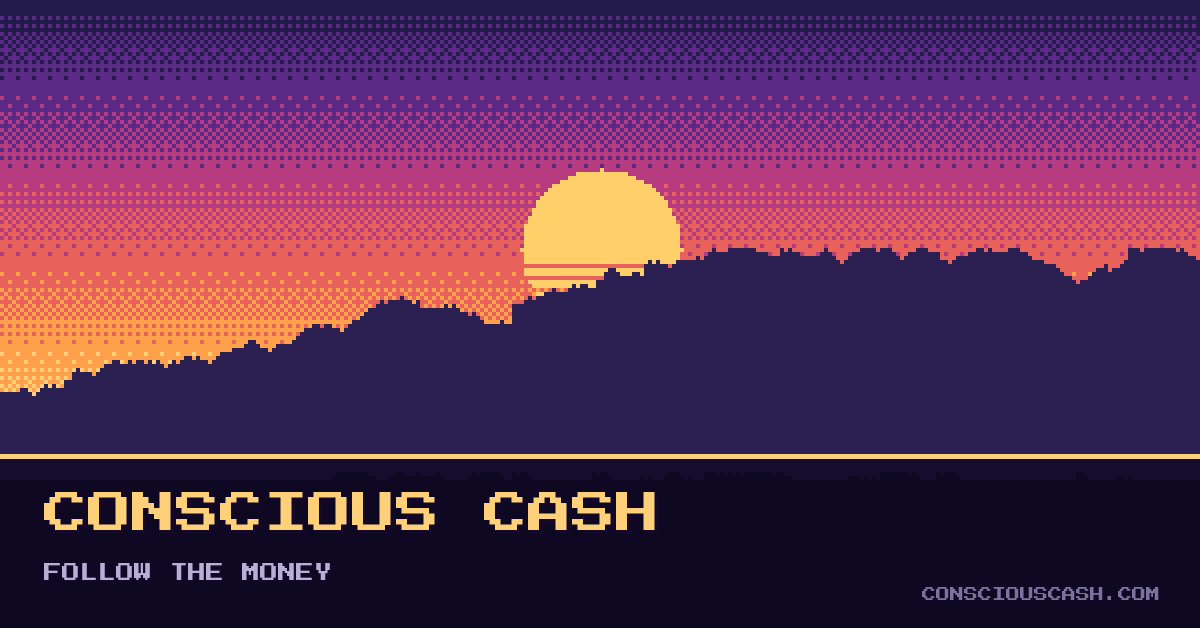
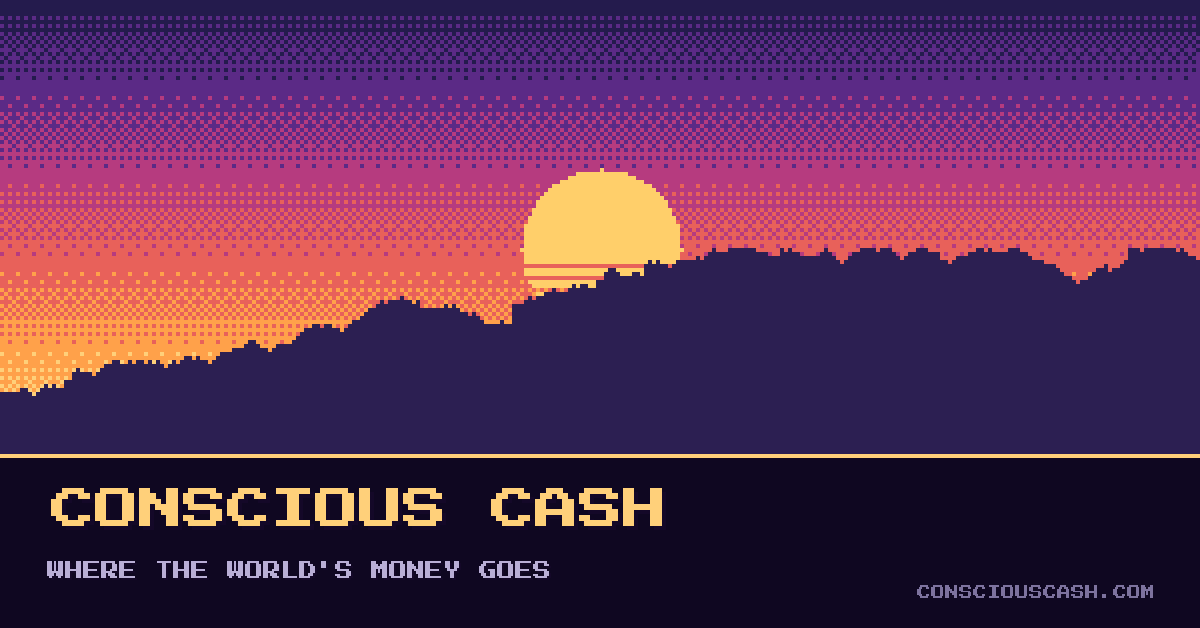
Language audit: neutral explanatory voice, fix inaccurate claims

diff --git a/index.html b/index.html
@@ -4,9 +4,9 @@
 <meta charset="utf-8">
 <meta name="viewport" content="width=device-width, initial-scale=1">
 <title>Conscious Cash</title>
-<meta name="description" content="Follow the money: how the world's cash flows drive the climate and nature crises — and how consciously redirected capital could reverse them.">
+<meta name="description" content="A data walkthrough of the world's largest money flows — where they go, what they fund, and what redirecting a share of them could build.">
 <meta property="og:title" content="Conscious Cash">
-<meta property="og:description" content="Follow the money: how the world's cash flows drive the climate and nature crises — and how consciously redirected capital could reverse them.">
+<meta property="og:description" content="A data walkthrough of the world's largest money flows — where they go, what they fund, and what redirecting a share of them could build.">
 <meta property="og:image" content="https://consciouscash.com/og/home.png">
 <meta property="og:url" content="https://consciouscash.com/">
 <meta property="og:type" content="website">
@@ -201,21 +201,19 @@
   <canvas id="scene"></canvas>
   <div class="overlay">
     <h1>CONSCIOUS CASH</h1>
-    <div class="tag">Every trend on this site — every tonne of carbon, every acre of forest — is downstream of a spending decision. Follow the money.</div>
+    <div class="tag">Where the world's money goes, what it builds, and what it could build — in four data-driven pages.</div>
   </div>
   <div class="down">▼</div>
 </div>
 
 <div class="wrap">
   <header class="site">
-    <div class="eyebrow">Follow the money · compiled from IMF · UNEP · IEA · WPP</div>
+    <div class="eyebrow">Where the world's money goes · compiled from IMF · UNEP · IEA · WPP</div>
     <p class="byline" style="margin-top:14px">Compiled by <b>Kamber Lucas</b> · Data current as of August 2026 · Continue to: <a href="/carbon-atlas/">Carbon Atlas</a> · <a href="/nature-atlas/">Nature Atlas</a> · <a href="/solutions/">Solutions</a></p>
-    <p class="lede">The world spends roughly $115 trillion a year. Where that money flows decides what gets built, what gets burned, and what survives. This page follows the biggest flows — the ones financing damage by default, and the ones starting to reverse it.</p>
-
     <div class="panel intro">
       <h2>START HERE</h2>
-      <p><strong>The premise of this site:</strong> climate change and nature loss are usually described as energy problems or land problems. Underneath, they are <b>capital allocation problems</b>. Coal plants, cattle pastures and container ships all exist because a stream of money keeps them profitable — and solar farms, restored wetlands and green steel exist exactly where a stream of money was consciously pointed at them.</p>
-      <p><strong>"Unconscious" spending</strong> doesn't mean malicious. It means money moving by default — subsidies that persist year after year, and damage that never shows up on an invoice. Most of the largest numbers on this page fall into that category.</p>
+      <p><strong>The premise of this site:</strong> climate change and nature loss are usually described as energy problems or land problems. Underneath, they are <b>capital allocation problems</b>. Coal plants, cattle pastures and container ships exist because streams of money keep them running — and solar farms, restored wetlands and green steel exist where streams of money were deliberately directed.</p>
+      <p><strong>Much of this money moves by default</strong> — through subsidies that carry over year after year, and through costs, like the health effects of pollution, that never appear on any invoice. "Conscious cash" is this site's shorthand for the alternative: money directed with its full effects in view.</p>
       <p><strong>The good news</strong> is that redirecting money is far easier than inventing it. The sums needed to fund the <a href="/solutions/">solutions</a> are small next to the flows already moving through the system, which is why redirecting them is a realistic lever.</p>
     </div>
 
@@ -245,13 +243,13 @@
 
   <section>
     <h2>THE WORLD'S LEDGER</h2>
-    <p class="subhead">The planet-shaping money flows, side by side, in trillions of dollars per year. Three kinds of line-items: flows financing damage, flows that are simply enormous (for scale), and flows consciously financing the fix.</p>
+    <p class="subhead">The largest planet-relevant money flows, side by side, in trillions of dollars per year. Three kinds of line items: flows linked to environmental damage, large flows shown for scale, and flows funding the transition.</p>
     <div class="howto"><span class="tag">HOW TO READ</span>Each bar is an annual flow in trillions of US dollars — hover any bar for detail. One caution: these come from different accounting systems (IMF, UNEP, IEA) and <b>overlap</b> — fossil subsidies and nature-negative flows partly count the same money — so read them as comparable magnitudes, never add them up.</div>
     <div class="panel">
       <div class="legend">
-        <div class="r"><span class="chip" style="background:var(--s2)"></span>Financing damage</div>
+        <div class="r"><span class="chip" style="background:var(--s2)"></span>Linked to environmental damage</div>
         <div class="r"><span class="chip" style="background:var(--s7)"></span>For scale</div>
-        <div class="r"><span class="chip" style="background:var(--s6)"></span>Financing the fix</div>
+        <div class="r"><span class="chip" style="background:var(--s6)"></span>Funding the transition</div>
       </div>
       <div id="ledger"></div>
       <div class="flags" style="margin-top:16px"><b>Worth noting:</b> governments and markets route roughly <b>ten times more money</b> into fossil fuel subsidies and nature-negative activity than the combined growth needed in nature-based solutions and clean power to hit global targets.</div>
@@ -259,30 +257,30 @@
   </section>
 
   <section>
-    <h2>UNCONSCIOUS SPENDING</h2>
+    <h2>SPENDING BY DEFAULT</h2>
     <p class="subhead">The two biggest bars above deserve unpacking, because they are easy to misread.</p>
     <div class="panel intro" style="border-left-color:var(--critical)">
       <p><strong>The $7.4 trillion fossil subsidy</strong> is mostly invisible. Only $725 billion is governments directly discounting fuel. The other $6.7 trillion is <b>"implicit" subsidy</b> — the health damage from air pollution and the climate damage from emissions that fuel prices simply don't include. Those costs still get paid — in health impacts and climate damage — just not at the pump · IMF, 2025 update.</p>
       <p><strong>The $7.3 trillion nature-negative flow</strong> is the same phenomenon on the living world: public and private money financing over-extraction, conversion and pollution — about $1.7 trillion of it straight from public treasuries. It is roughly <b>30× larger</b> than everything spent protecting and restoring nature · UNEP State of Finance for Nature.</p>
-      <p><strong>What does this buy?</strong> Exactly the curves this site documents. The money above is the financial engine behind every falling trend line in the two atlases:</p>
+      <p><strong>What do these flows connect to?</strong> The trends documented in the two atlases:</p>
     </div>
     <div class="cards">
       <a class="card" href="/carbon-atlas/" style="border-top-color:var(--sunset)">
-        <div class="no">EXHIBIT A</div>
+        <div class="no">RELATED · CARBON</div>
         <div class="t">THE CARBON ATLAS</div>
-        <div class="d">52 billion tonnes of greenhouse gas a year, traced to every source — the direct output of the fossil-subsidized economy.</div>
+        <div class="d">52 billion tonnes of greenhouse gas a year, traced to every source at full granularity.</div>
       </a>
       <a class="card" href="/nature-atlas/" style="border-top-color:var(--s6)">
-        <div class="no">EXHIBIT B</div>
+        <div class="no">RELATED · NATURE</div>
         <div class="t">THE NATURE ATLAS</div>
-        <div class="d">Wildlife down 73%, wetlands down 22%, reefs bleaching — the direct output of the nature-negative $7.3 trillion.</div>
+        <div class="d">Wildlife populations down 73%, wetlands down 22%, reefs under heat stress — tracked in full.</div>
       </a>
     </div>
   </section>
 
   <section>
-    <h2>WHAT IF THIS CASH WERE CONSCIOUS?</h2>
-    <p class="subhead">Here is the arithmetic that makes this site optimistic rather than despairing. Compare what the transition <em>needs</em> against the unconscious flows above — the gaps are real, but they are small change by the standards of the ledger.</p>
+    <h2>CLOSING THE GAPS</h2>
+    <p class="subhead">Comparing what the energy transition and nature protection need against the flows above. The gaps are real — but they are small relative to the ledger.</p>
     <div class="panel">
       <div class="gap">
         <div class="cap"><span><b>Clean energy investment</b> — $2.2T flowing now</span><span class="mono">need: $4.5T/yr by 2030</span></div>
@@ -305,22 +303,22 @@
       <a class="card" href="/">
         <div class="no">01 · YOU ARE HERE</div>
         <div class="t">CONSCIOUS CASH</div>
-        <div class="d">Follow the money: the flows financing the damage, and the small redirection that funds the fix.</div>
+        <div class="d">The largest global money flows, and what redirecting a small share of them could fund.</div>
       </a>
       <a class="card" href="/carbon-atlas/" style="border-top-color:var(--sunset)">
         <div class="no">02 · THE PROBLEM</div>
         <div class="t">CARBON ATLAS</div>
-        <div class="d">What the money burns: every emission source on Earth, at full granularity, with 30 years of trend.</div>
+        <div class="d">Every emission source on Earth, at full granularity, with 30 years of trend behind each sector.</div>
       </a>
       <a class="card" href="/nature-atlas/" style="border-top-color:var(--s6)">
         <div class="no">03 · THE STAKES</div>
         <div class="t">NATURE ATLAS</div>
-        <div class="d">What the money clears: the state of species, forests, oceans and fresh water — and what drives the loss.</div>
+        <div class="d">The state of species, forests, oceans and fresh water — and what drives the loss.</div>
       </a>
       <a class="card" href="/solutions/" style="border-top-color:var(--gold)">
         <div class="no">04 · THE RESPONSE</div>
         <div class="t">SOLUTIONS</div>
-        <div class="d">What conscious money builds: collapsing clean-tech costs, the funds scaling them, and the curves already bending.</div>
+        <div class="d">Falling clean-tech costs, the organisations scaling them, and the trends already shifting.</div>
       </a>
     </div>
   </section>
@@ -335,7 +333,7 @@
         <div><dt>Nature-negative flows</dt><dd>UNEP's term for public and private money financing activities that degrade nature — harmful agricultural subsidies, over-extraction, conversion of habitat.</dd></div>
         <div><dt>Nature-based solutions (NbS)</dt><dd>Investments in nature that solve human problems — reforestation, wetland restoration, mangrove coastal defense. Currently ~$200B/yr worldwide.</dd></div>
         <div><dt>Trillion</dt><dd>A thousand billions. One trillion dollars a year ≈ $32,000 spent every second, all year.</dd></div>
-        <div><dt>Capital allocation</dt><dd>Deciding where money goes. The thesis of this site: it is the master variable behind every environmental trend line.</dd></div>
+        <div><dt>Capital allocation</dt><dd>Deciding where money goes. The through-line of this site: where money flows has a large influence on environmental trends.</dd></div>
       </dl>
     </div>
   </section>
@@ -343,7 +341,7 @@
   <footer class="src">
     <h3>Sources &amp; method</h3>
     <p>Fossil subsidies: <a href="https://www.elibrary.imf.org/view/journals/001/2025/270/article-A001-en.xml">IMF Fossil Fuel Subsidies Data: 2025 Update</a> ($7.4T total in 2024 = 6.4% of GDP; $725B explicit, $6.7T implicit, three-quarters of it unpriced air pollution and climate damage). Nature flows: <a href="https://www.unep.org/resources/state-finance-nature-2026">UNEP State of Finance for Nature</a> ($7.3T nature-negative flows; ~$200B to nature-based solutions; ~$1.7T of the negative flows from public sources; NbS need ≈ $542B/yr by 2030). Clean energy: <a href="https://www.iea.org/reports/world-energy-investment-2026">IEA World Energy Investment 2026</a> ($2.2T clean vs $1.2T fossil); need: <a href="https://www.iea.org/reports/net-zero-roadmap-a-global-pathway-to-keep-the-15-c-goal-in-reach/executive-summary">IEA Net Zero Roadmap</a> ($4.5T/yr by 2030). Advertising: <a href="https://www.marketingbrew.com/stories/2025/12/09/total-global-ad-revenue-grew-nearly-9-in-2025-wpp-media">WPP Media</a> (~$1.1T in 2025). World GDP: IMF World Economic Outlook (~$115T, 2025).</p>
-    <p>Method notes: flows come from different accounting frameworks and partially overlap (the IMF's implicit subsidies and UNEP's nature-negative flows both capture unpriced damage) — they are presented for magnitude comparison and never summed. "Unconscious/conscious" is this site's framing, not the sources'. The 3%-of-GDP redirection figure is arithmetic on the sourced numbers ($2.3T energy gap + $0.34T nature gap ≈ $2.6T ≈ 2.3% of GDP, rounded up for margin), not a published scenario.</p>
+    <p>Method notes: flows come from different accounting frameworks and partially overlap (the IMF's implicit subsidies and UNEP's nature-negative flows both capture unpriced damage) — they are presented for magnitude comparison and never summed. "Conscious cash" and "spending by default" are this site's framing, not the sources'. The 3%-of-GDP redirection figure is arithmetic on the sourced numbers ($2.3T energy gap + $0.34T nature gap ≈ $2.6T ≈ 2.3% of GDP, rounded up for margin), not a published scenario.</p>
     <p>© Kamber Lucas · <a href="/about/">About this project</a> · <a href="/carbon-atlas/">Carbon Atlas</a> · <a href="/nature-atlas/">Nature Atlas</a> · <a href="/solutions/">Solutions</a> · <a href="/map/" title="World map">🗺</a></p>
   </footer>
 </div>
@@ -521,7 +519,7 @@
     { n: "Nature-negative flows", note: "UNEP 2023 · overlaps with the above", v: 7.3, c: "--s2" },
     { n: "Clean energy investment", note: "IEA 2026 · nearly 2× fossil investment", v: 2.2, c: "--s6" },
     { n: "Fossil fuel investment", note: "IEA 2026 · oil, gas & coal supply", v: 1.2, c: "--s2" },
-    { n: "Global advertising", note: "WPP 2025 · the demand engine", v: 1.1, c: "--s7" },
+    { n: "Global advertising", note: "WPP 2025 · shown for scale", v: 1.1, c: "--s7" },
     { n: "Nature-based solutions", note: "UNEP · all spending on nature, worldwide", v: 0.2, c: "--s6" }
   ];
   var el = document.getElementById("ledger");

diff --git a/inner/index.html b/inner/index.html
@@ -195,14 +195,14 @@
 
 <div class="wrap">
   <header class="site">
-    <div class="eyebrow">You found the hidden page · the mind behind the money</div>
+    <div class="eyebrow">You found the hidden page · the science of inner states</div>
     <h1>INNER TECH</h1>
     <p class="byline">Compiled by <b>Kamber Lucas</b> · Data current as of August 2026 · Not linked from anywhere. You clicked the sun.</p>
     <p class="lede">Every page on this site is about decisions — where money, carbon and land go. This page is about the thing making those decisions: the mind. A wave of researchers, retreats and startups is treating inner states as trainable, measurable and fundable — and the science is further along than most people know.</p>
 
     <div class="panel intro">
       <h2>START HERE</h2>
-      <p><strong>Why a money site has a consciousness page:</strong> the site argues that unconscious spending is autopilot — money moving without attention. But attention is a faculty of minds, and minds can be trained. The deepest version of "conscious cash" isn't a portfolio choice; it's the capacity to notice what you're doing while you're doing it. This page covers the emerging field — sometimes called <b>spirit tech</b> — trying to make that capacity scalable.</p>
+      <p><strong>Why a money site has a consciousness page:</strong> every flow charted on this site is, at some level, the result of human decisions — and decisions are shaped by attention and wellbeing. Both turn out to be trainable. This page covers the emerging field — sometimes called <b>spirit tech</b> — studying whether the mind's capacities can be developed, measured, and supported at scale.</p>
       <p><strong>What's actually new:</strong> three things converged in the last few years. Contemplative practices that took monasteries decades are being taught in days and studied with neuroimaging at places like Harvard. Psychedelic-assisted therapy produced two positive Phase 3 trials and is on an accelerated path to FDA decision. And measurement — EEG headbands, focused ultrasound, biomarkers of deep states — is starting to make the inner world legible the way satellites made forests legible.</p>
       <p><strong>Same rules as the rest of the site:</strong> sources are listed at the bottom, projections are labelled as projections — and this field needs the caveats more than any other page here. The evidence base is young, the hype is real, and so are the risks. Both are covered below.</p>
     </div>
@@ -232,9 +232,9 @@
   </header>
 
   <section>
-    <h2>THE EVIDENCE, HONESTLY RANKED</h2>
+    <h2>THE EVIDENCE, RANKED</h2>
     <p class="subhead">Not everything in this space is equally proven. Here is the field's toolkit ranked by the strength of its current evidence — from decades of clinical trials down to first-in-human experiments. The pattern worth noticing: things keep moving up this ladder.</p>
-    <div class="howto"><span class="tag">HOW TO READ</span>Longer bars = stronger current evidence. This is a judgment call informed by the literature, not a measurement — the point is the honest spread, not false precision.</div>
+    <div class="howto"><span class="tag">HOW TO READ</span>Longer bars = stronger current evidence. This is a judgment call informed by the literature, not a measurement — the point is the spread, not false precision.</div>
     <div class="panel">
       <div class="erow">
         <div class="lbl">Mindfulness programs<small>MBSR and derivatives, 40+ years of trials</small></div>
@@ -275,7 +275,7 @@
     <div class="panel intro" style="border-left-color:var(--aurora)">
       <p><strong>The numbers they report:</strong> most retreat participants reach jhana in under 40 hours of meditation; over 60% describe the retreat as the best thing that's happened to them in six months or more. Their retreats have drawn 100+ engineers from OpenAI, Anthropic and Google, and coverage from TIME. The company has raised only ~$750K — this wave is currently powered more by word of mouth than by capital.</p>
       <p><strong>Why it matters if it holds up:</strong> jhanas appear to be non-addictive, drug-free states of intense wellbeing. If they are reliably teachable to ordinary people in days, that is a genuinely new tool for human flourishing — one that pairs naturally with the measurement work at Harvard/MGH, where advanced states like jhana and even meditative <em>cessation</em> (the voluntary, temporary switching-off of consciousness) are now being captured with EEG and fMRI.</p>
-      <p><strong>The honest read:</strong> the claims rest on self-reports from self-selected participants, and no controlled trial has yet been published. The right posture is the one this site uses everywhere: watch the data, not the vibes.</p>
+      <p><strong>The caveat:</strong> the claims rest on self-reports from self-selected participants, and no controlled trial has yet been published. As everywhere on this site: watch the data.</p>
     </div>
   </section>
 
@@ -384,12 +384,12 @@
       <div class="era">
         <div class="when">2036 &rarr; 2046<small>integration phase</small></div>
         <ul>
-          <li><b>Attention as a trained faculty.</b> The long bet: a meaningful share of people treat mental training the way they now treat exercise — which would quietly change consumption, politics and the "unconscious spending" this site began with.</li>
+          <li><b>Attention as a trained faculty.</b> The long bet: a meaningful share of people treat mental training the way they now treat exercise — which would gradually change consumption, politics, and the default spending patterns this site began with.</li>
           <li><b>Consciousness science comes of age</b> — with mature theories, the study of wellbeing gets what climate science got from physics: a foundation.</li>
         </ul>
       </div>
     </div>
-    <div class="flags"><b>Read this page with both eyes open:</b> the field attracts hype faster than evidence, and it has real risks — difficult and destabilizing meditation experiences are documented (Brown University's research and the nonprofit Cheetah House exist for a reason), psychedelics carry genuine psychiatric risks outside screened, supported settings, and charismatic-teacher dynamics have burned people in every generation. Nothing here is medical advice; the interesting thing is that the serious version of this field now exists — trials, imaging, falsifiable claims — alongside the hype.</div>
+    <div class="flags"><b>A note on risks:</b> the field attracts hype faster than evidence, and it has real risks — difficult and destabilizing meditation experiences are documented (Brown University's research and the nonprofit Cheetah House exist for a reason), psychedelics carry genuine psychiatric risks outside screened, supported settings, and charismatic-teacher dynamics have burned people in every generation. Nothing here is medical advice; the interesting thing is that the serious version of this field now exists — trials, imaging, falsifiable claims — alongside the hype.</div>
   </section>
 
   <a class="companion panel" href="/">

diff --git a/nature-atlas/index.html b/nature-atlas/index.html
@@ -235,7 +235,7 @@
     <div class="panel intro">
       <h2>START HERE</h2>
       <p><strong>What is this page?</strong> While the <a href="/carbon-atlas/" style="color:var(--ink-1)">Carbon Atlas</a> tracks what we put <em>into</em> the atmosphere, this page tracks what is happening to the living world — <b>biodiversity</b>, the variety and abundance of life on Earth. Wildlife populations, forests, wetlands, coral reefs and fish stocks are the planet's life-support infrastructure: they feed us, filter water, buffer storms, pollinate crops and store carbon.</p>
-      <p><strong>One honest caveat before you read:</strong> unlike emissions, nature has no single unit of measurement. The numbers here come from different instruments measuring different things — how much average wildlife <em>populations</em> have shrunk, how many <em>species</em> are at risk of extinction, hectares of forest lost, the share of reefs heat-stressed. They are shown side by side, never added together. Each chart says exactly what its number does and does not mean.</p>
+      <p><strong>One caveat before you read:</strong> unlike emissions, nature has no single unit of measurement. The numbers here come from different instruments measuring different things — how much average wildlife <em>populations</em> have shrunk, how many <em>species</em> are at risk of extinction, hectares of forest lost, the share of reefs heat-stressed. They are shown side by side, never added together. Each chart says exactly what its number does and does not mean.</p>
       <p><strong>How to use it:</strong> the page runs from bad news to good — species first, then forests and wildlands, then oceans and fresh water, then the ranked list of <em>causes</em>, and finally where protection genuinely works. Hover over any chart for details; a glossary near the bottom decodes the jargon, and sources are listed at the bottom of the page.</p>
     </div>
 
@@ -387,7 +387,7 @@
       <div class="tgtlbl">Bars show progress toward the 30×30 target (right edge = 30%). Protected Planet live statistics, August 2026 (ocean up from 8.4% in late 2024, helped by new large marine protected areas). Also under protection: ~20% of forests, &gt;42% of remaining mangroves.</div>
     </div>
     <div class="wins" id="wins"></div>
-    <div class="flags"><b>Read the wins honestly:</b> they are proof that targeted conservation works, not that the trend has turned. Conservation since 1993 prevented an estimated 21–32 bird and 7–16 mammal extinctions — while the drivers above kept intensifying.</div>
+    <div class="flags"><b>A note on the wins:</b> they are proof that targeted conservation works, not that the trend has turned. Conservation since 1993 prevented an estimated 21–32 bird and 7–16 mammal extinctions — while the drivers above kept intensifying.</div>
   </section>
 
   <a class="companion panel" href="/carbon-atlas/">
@@ -424,7 +424,7 @@
   <section>
     <h2>ABOUT THIS PROJECT</h2>
     <div class="panel">
-      <p style="max-width:88ch;font-size:14px;color:var(--ink-2);margin:0">I'm <b style="color:var(--ink-1)">Kamber Lucas</b> — an independent management consultant, formerly of Deloitte's sustainability practice, with an MBA in Corporate Sustainability and a graduate certificate in Carbon Management, previously in conservation with the Alaska Dept. of Fish &amp; Game and a Returned Peace Corps Volunteer. I built the Carbon and Nature atlases to put the headline numbers about the planet in one place, at full detail, with sources listed for each chart. The charts are hand-coded; the data comes from the organisations listed below. Corrections and suggestions welcome — more on the <a href="/about/" style="color:inherit">About page</a>.</p>
+      <p style="max-width:88ch;font-size:14px;color:var(--ink-2);margin:0">I'm <b style="color:var(--ink-1)">Kamber Lucas</b> — an independent management consultant, formerly of Deloitte's sustainability practice, with an MBA in Corporate Sustainability and a graduate certificate in Carbon Management, previously in conservation with the Alaska Dept. of Fish &amp; Game and a Returned Peace Corps Volunteer. The Carbon and Nature atlases put the headline numbers about the planet in one place, at full detail, with sources listed for each chart. The data comes from the organisations listed below. Corrections and suggestions welcome — more on the <a href="/about/" style="color:inherit">About page</a>.</p>
     </div>
   </section>
 

diff --git a/solutions/index.html b/solutions/index.html
@@ -298,7 +298,7 @@
 
   <section>
     <h2>SOLUTIONS, MAPPED TO SOURCES</h2>
-    <p class="subhead">The <a href="/carbon-atlas/" style="color:var(--ink-1)">Carbon Atlas</a> breaks all emissions into their sources. Every one of those slices now has technologies attacking it — at very different stages of maturity. This map pairs each major source with its solutions and an honest status: <span class="stat now">DEPLOYING NOW</span> means commercially winning today, <span class="stat scaling">SCALING</span> means proven and growing fast, <span class="stat emerging">EMERGING</span> means real but still small or pre-commercial.</p>
+    <p class="subhead">The <a href="/carbon-atlas/" style="color:var(--ink-1)">Carbon Atlas</a> breaks all emissions into their sources. Every one of those slices now has technologies addressing it — at very different stages of maturity. This map pairs each major source with its solutions and a status: <span class="stat now">DEPLOYING NOW</span> means commercially winning today, <span class="stat scaling">SCALING</span> means proven and growing fast, <span class="stat emerging">EMERGING</span> means real but still small or pre-commercial.</p>
     <div class="panel">
       <div id="solmap"></div>
     </div>
@@ -416,7 +416,7 @@
         </ul>
       </div>
     </div>
-    <div class="flags"><b>Read the optimism honestly:</b> S-curves are powerful but not automatic. Fossil-heavy grids, financing gaps in developing economies, land-use politics, and policy reversals can all slow this timeline — and today's warming trajectory (~2.5&ndash;3&nbsp;°C on current policies) still demands faster action than the current pace. The point of this page is not that success is guaranteed; it's that the tools now exist, they're getting cheaper every year, and the curves have already started to bend.</div>
+    <div class="flags"><b>A note on limits:</b> S-curves are powerful but not automatic. Fossil-heavy grids, financing gaps in developing economies, land-use politics, and policy reversals can all slow this timeline — and today's warming trajectory (~2.5&ndash;3&nbsp;°C on current policies) still demands faster action than the current pace. The point of this page is not that success is guaranteed; it's that the tools now exist, they're getting cheaper every year, and the curves have already started to bend.</div>
   </section>
 
   <a class="companion panel" href="/carbon-atlas/">

diff --git a/carbon-atlas/index.html b/carbon-atlas/index.html
@@ -390,7 +390,7 @@
   <section>
     <h2>ABOUT THIS PROJECT</h2>
     <div class="panel">
-      <p style="max-width:88ch;font-size:14px;color:var(--ink-2);margin:0">I'm <b style="color:var(--ink-1)">Kamber Lucas</b> — an independent management consultant, formerly of Deloitte's sustainability practice, with an MBA in Corporate Sustainability and a graduate certificate in Carbon Management, previously in conservation with the Alaska Dept. of Fish &amp; Game and a Returned Peace Corps Volunteer. I built the Carbon and Nature atlases to put the headline numbers about the planet in one place, at full detail, with sources listed for each chart. The charts are hand-coded; the data comes from the organisations listed below. Corrections and suggestions welcome — more on the <a href="/about/" style="color:inherit">About page</a>.</p>
+      <p style="max-width:88ch;font-size:14px;color:var(--ink-2);margin:0">I'm <b style="color:var(--ink-1)">Kamber Lucas</b> — an independent management consultant, formerly of Deloitte's sustainability practice, with an MBA in Corporate Sustainability and a graduate certificate in Carbon Management, previously in conservation with the Alaska Dept. of Fish &amp; Game and a Returned Peace Corps Volunteer. The Carbon and Nature atlases put the headline numbers about the planet in one place, at full detail, with sources listed for each chart. The data comes from the organisations listed below. Corrections and suggestions welcome — more on the <a href="/about/" style="color:inherit">About page</a>.</p>
     </div>
   </section>
 

diff --git a/about/index.html b/about/index.html
@@ -117,7 +117,7 @@
   <div class="panel proj">
     <h2>WHAT THIS PROJECT IS</h2>
     <p><b>Conscious Cash</b> is a personal, independent project with one thesis: the climate and nature crises are, underneath everything, <b>capital allocation problems</b> — and solvable ones. The site makes that case in four data-driven pages: <a href="/">the money</a>, <a href="/carbon-atlas/">the emissions it buys</a>, <a href="/nature-atlas/">the living world it costs</a>, and <a href="/solutions/">what consciously redirected capital is already building</a>.</p>
-    <p>The site is hand-coded, sources are cited on each page, and projections are labelled as projections. Data reflects the latest releases as of <b>August 2026</b>; I update the pages as the major sources publish. Corrections and suggestions are welcome.</p>
+    <p>Sources are cited on each page, and projections are labelled as projections. The site was built with the help of AI tools; the framing, editorial choices, and final say are mine. Data reflects the latest releases as of <b>August 2026</b>; I update the pages as the major sources publish. Corrections and suggestions are welcome.</p>
     <p style="font-size:12.5px;color:var(--ink-3)">This site reflects my own views and is not affiliated with any organisation named on it. Nothing here is investment advice.</p>
   </div>
 
